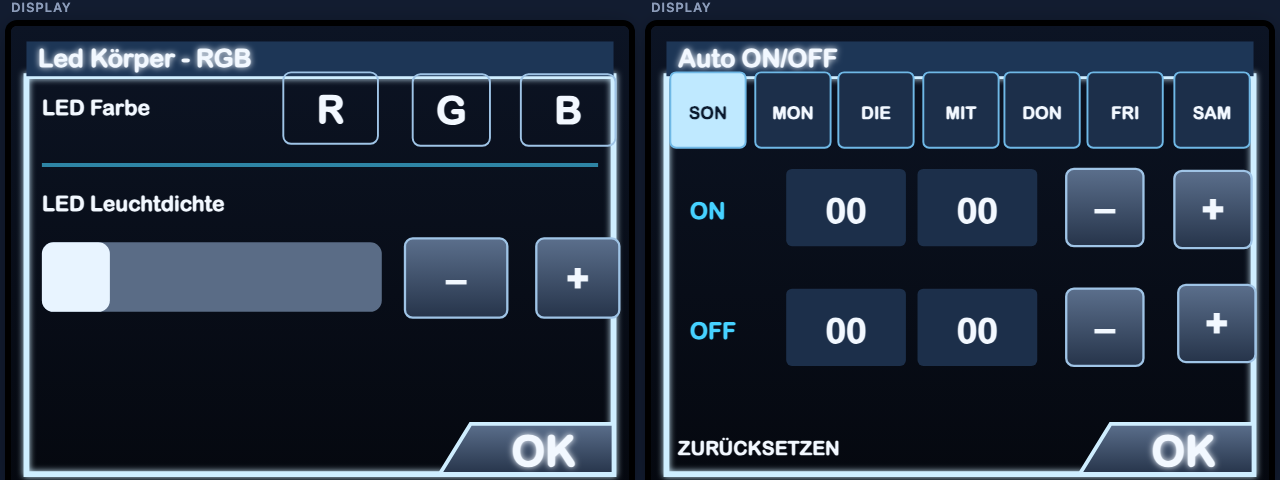
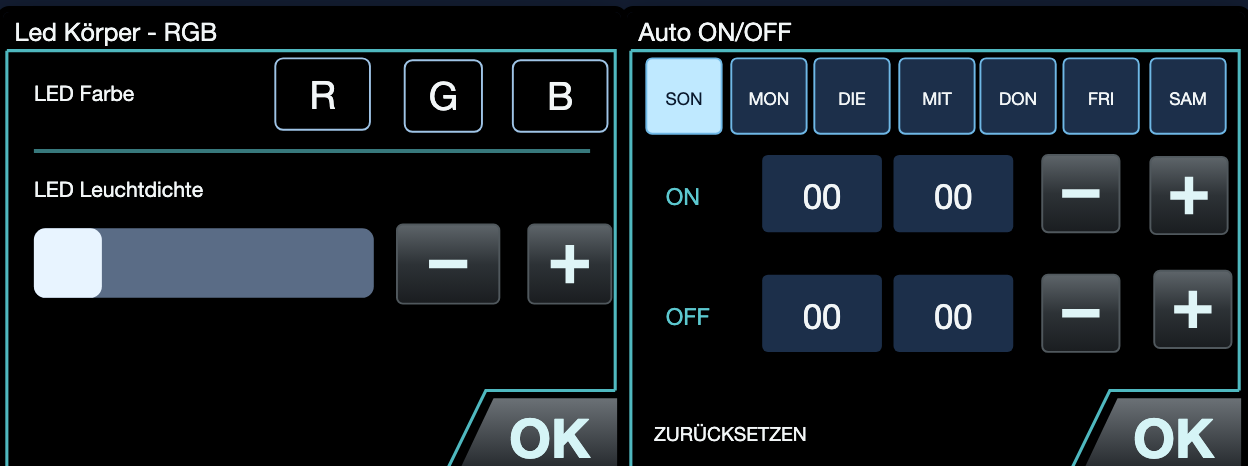
Web-Nachbau nach den Bildschirmfotos im Bezzera-Handbuch
Das offizielle Handbuch "Matrix Duo" (2018/2020) enthaelt die Oberflaeche
in Originalaufloesung 320x240. Danach neu gezeichnet:
- schwarzer Grund, tuerkise Linien und Schrift, graue Knoepfe; Seiten mit
  Titel oben links und OK-Reiter, Dialoge mit Titelbalken
- Startbildschirm: links Pumpendruck 0-10 bar (vorher faelschlich
  10-100), rechts Druck Servicekessel 0-2,5 bar, Teilstriche, Zeiger,
  Heizbogen, Wasserstand als Ring mit "water level"
- Symbole: Tasse, Dampf mit Wasser, Seitenmenue (Tuch/Hand, Zahnrad,
  Dusche, Ein/Aus), Schraubenschluessel, Zeilen-Symbole der Einstellungen,
  rotes Warndreieck, Filter, Tank; Schalter "| OFF" mit Unterstrich,
  Scrollleiste; richtige Flaggen
- README: Drucke auf dem Startbildschirm, Handbuch als Quelle, neue Bilder

Claude-Session: https://claude.ai/code/session_01F4JJqusftCV1Cm3rHrQAFe

diff --git a/bridge/duo_bridge/web_ui.h b/bridge/duo_bridge/web_ui.h
@@ -180,18 +180,20 @@ setInterval(hole,700); hole(); addEventListener("resize",zeichne);
 
 <script>
 // ─── Display-Nachbau (320×240 wie das DMT32240) ────────────────────────────
-const FARBE={bg1:"#0c1424",bg2:"#05080f",rahmen:"#cfeeff",cyan:"#46d2ff",orange:"#ff9d45",text:"#f2f8ff",leise:"#7f93b3"};
+// Farben nach den Bildschirmfotos im Bezzera-Handbuch (Matrix/Duo, 320x240):
+// schwarzer Grund, tuerkise Linien und Schrift, graue Knoepfe.
+const FARBE={bg1:"#000",bg2:"#000",rahmen:"#4fb8bf",cyan:"#5cc8cf",hell:"#9fe6ea",orange:"#ff9d45",rot:"#e3161b",text:"#f2f6f7",leise:"#8a9699"};
 const DE=1, sprachIndex=s=>Math.min(2,Math.floor(Math.max(0,s)/100));
 const T={ // [EN, DE, IT]
  start:["press to start","Für Start drücken","premere per accendere"],
  alarm:["Alarm","Alarm","Allarme"],
- 2:["Loading time out","Timeout Beladen","Timeout carico"],
+ 2:["Loading time out\nrestart loading","Timeout Beladen\nNeustart","Timeout carico\nSpegnere e riaccendere"],
  3:["Please fill water tank","Bitte Tank füllen","Riempire serbatoio"],
  4:["NTC failure","Fehler Sonde NTC","Errore sonda NTC"],
  56:["Necessary maintenance","Wartung erforderlich","Necessaria manutenzione"],
- 77:["No volumetric signal","Kein volumetrisches Signal","Nessun segnale volumetrico"],
+ 77:["No volumetric signal!\nDosage OFF","Kein volumetrisches Signal\nVolumetrische Dosierung OFF","Nessun segnale volumetrico\nDosaggio OFF"],
  89:["Change water filter","Wasserfilter wechseln","Sostituire filtro acqua"],
- 91:["Washing process interrupted","Unterbrochener Waschvorgang","Processo di lavaggio interrotto"],
+ 91:["Attention!\nWashing process interrupted","Achtung!\nUnterbrochener Waschvorgang","Attenzione!\nProcesso di lavaggio interrotto"],
  einst:["Settings","Einstellungen","Impostazioni"], tech:["Technician menu","Technisches Menü","Menu tecnico"],
  kaffee:["Coffee settings","Einstellungen Kaffee","Impostazioni caffè"], tee:["Tea settings","Tee Einstellungen","Impostazioni The"],
  temp:["Temperature","Temperatur","Temperatura"], kessel:["BOILER","KESSEL","CALDAIA"], prio:["PRIORITY","PRIORITÄT","PRIORITA'"],
@@ -217,14 +219,20 @@ function geh(s){cmd("p "+s)}
 function taste(name){const e=$("log"); e.textContent+=`Taste „${name}“ auf Seite ${dspSeite}: Code noch unbekannt, nichts gesendet\n`; e.scrollTop=e.scrollHeight}
 
 const defs=`<defs>
-<linearGradient id="gbg" x1="0" y1="0" x2="0" y2="1"><stop offset="0" stop-color="${FARBE.bg1}"/><stop offset="1" stop-color="${FARBE.bg2}"/></linearGradient>
-<linearGradient id="gzeile" x1="0" y1="0" x2="0" y2="1"><stop offset="0" stop-color="#2a4b73"/><stop offset=".5" stop-color="#132a47"/><stop offset="1" stop-color="#0b1a2e"/></linearGradient>
-<linearGradient id="gknopf" x1="0" y1="0" x2="0" y2="1"><stop offset="0" stop-color="#5b6f8c"/><stop offset="1" stop-color="#26344a"/></linearGradient>
-<linearGradient id="ghell" x1="0" y1="0" x2="1" y2="0"><stop offset="0" stop-color="#e8f6ff"/><stop offset=".6" stop-color="#7fd0ff"/><stop offset="1" stop-color="#1c3a5c"/></linearGradient>
-<radialGradient id="gglow"><stop offset="0" stop-color="#bff0ff" stop-opacity=".9"/><stop offset=".45" stop-color="#46d2ff" stop-opacity=".35"/><stop offset="1" stop-color="#46d2ff" stop-opacity="0"/></radialGradient>
-<filter id="glow" x="-20%" y="-20%" width="140%" height="140%"><feGaussianBlur stdDeviation="1.6" result="b"/><feMerge><feMergeNode in="b"/><feMergeNode in="SourceGraphic"/></feMerge></filter>
+<linearGradient id="gbg" x1="0" y1="0" x2="0" y2="1"><stop offset="0" stop-color="#000"/><stop offset="1" stop-color="#000"/></linearGradient>
+<linearGradient id="gtitel" x1="0" y1="0" x2="1" y2="0"><stop offset="0" stop-color="#3f8c91"/><stop offset=".55" stop-color="#16393c"/><stop offset="1" stop-color="#000"/></linearGradient>
+<linearGradient id="gzeile" x1="0" y1="0" x2="1" y2="0"><stop offset="0" stop-color="#2b4447"/><stop offset=".55" stop-color="#101a1b"/><stop offset="1" stop-color="#000"/></linearGradient>
+<linearGradient id="ghell" x1="0" y1="0" x2="1" y2="0"><stop offset="0" stop-color="#cdf3f5"/><stop offset=".45" stop-color="#4c9da2"/><stop offset="1" stop-color="#000"/></linearGradient>
+<linearGradient id="gknopf" x1="0" y1="0" x2="0" y2="1"><stop offset="0" stop-color="#5e656a"/><stop offset=".5" stop-color="#2d3236"/><stop offset="1" stop-color="#1a1d20"/></linearGradient>
+<linearGradient id="gok" x1="0" y1="0" x2="0" y2="1"><stop offset="0" stop-color="#6b7176"/><stop offset="1" stop-color="#23272b"/></linearGradient>
+<linearGradient id="gleiste" x1="0" y1="0" x2="0" y2="1"><stop offset="0" stop-color="#9fe6ea"/><stop offset="1" stop-color="#1b4a4e"/></linearGradient>
+<linearGradient id="gtrenn" x1="0" y1="0" x2="1" y2="0"><stop offset="0" stop-color="#5cc8cf" stop-opacity="0"/><stop offset=".5" stop-color="#bff0f2"/><stop offset="1" stop-color="#5cc8cf" stop-opacity="0"/></linearGradient>
+<linearGradient id="gheiz" x1="0" y1="1" x2="0" y2="0"><stop offset="0" stop-color="#e3161b"/><stop offset=".5" stop-color="#ff9d2a"/><stop offset="1" stop-color="#ff9d2a" stop-opacity="0"/></linearGradient>
+<radialGradient id="gscheibe"><stop offset="0" stop-color="#2f5b5f"/><stop offset=".7" stop-color="#0c1718"/><stop offset="1" stop-color="#000"/></radialGradient>
+<radialGradient id="gglow"><stop offset="0" stop-color="#2f5b5f"/><stop offset="1" stop-color="#000"/></radialGradient>
+<filter id="glow" x="-20%" y="-20%" width="140%" height="140%"><feGaussianBlur stdDeviation=".6" result="b"/><feMerge><feMergeNode in="b"/><feMergeNode in="SourceGraphic"/></feMerge></filter>
 </defs>`;
-const txt=(x,y,t,o={})=>`<text x="${x}" y="${y}" fill="${o.f||FARBE.text}" font-size="${o.s||12}" font-weight="${o.w||700}" text-anchor="${o.a||"start"}" font-family="Arial Rounded MT Bold,Arial,sans-serif" ${o.glow?'filter="url(#glow)"':""}>${t}</text>`;
+const txt=(x,y,t,o={})=>`<text x="${x}" y="${y}" fill="${o.f||FARBE.text}" font-size="${o.s||12}" font-weight="${o.w||400}" text-anchor="${o.a||"start"}" font-family="Helvetica Neue,Helvetica,Arial,sans-serif" ${o.glow?'filter="url(#glow)"':""}>${t}</text>`;
 const klick=()=>"";  // Klicks wertet die Tastentabelle aus (beruehre())
 
 function rahmen(titel){
@@ -359,7 +367,6 @@ function hebel(x,y,richtung){ // Siebträgerhebel der Brühgruppe, stilisiert
 }
 
 const SEITEN_DE={
- 102:{typ:"alarm",icon:"warn",text:"Timeout Beladen\nNeustart"},
  106:{typ:"start1"},183:{typ:"start1"},
  109:{typ:"prio"},111:{typ:"prio"},
  110:{typ:"wert",titel:"Vorbrühen",label:"Sekunden Vorbrühen",vp:0x5C,div:10,st:1,suffix:"″"},
@@ -416,11 +423,11 @@ function seiteBaukasten(s,j,k,d){
   switch(def.typ){
   case "leer": return `<rect width="320" height="240" fill="#e9eef6"/>`;
   case "alarm": return rahmen(tx("alarm",s))+icon(def.icon,160,86)+mehrzeilig(160,132,def.text,{s:13})+fussLinie(176)+R.map(r=>kn(r,"OK",18)).join("");
-  case "info": return (def.titel?rahmen(def.titel):rahmenOhneTitel())+(def.icon=="sperre"?`<g transform="translate(160,80)" stroke="#cfeeff" stroke-width="3" fill="none" filter="url(#glow)"><path d="M-14 -12 l20 -8 l10 20 l-20 8z"/><path d="M-4 4 l6 14"/></g>`:"")+
+  case "info": return dialog(def.titel||"")+(def.icon=="sperre"?SYM.tuch(160,80,1.8):"")+
       mehrzeilig(160,def.titel?120:118,def.text,{s:12});
   case "frage": { // Meldung mit ESC/OK: rechte Taste OK, linke ESC
     const kn2=R.slice().sort((a,b)=>a.x0-b.x0);
-    return (def.titel?rahmen(def.titel):rahmenOhneTitel())+mehrzeilig(160,def.titel?96:92,def.text,{s:12})+fussLinie(172)+
+    return dialog(def.titel||"")+mehrzeilig(160,def.titel?96:92,def.text,{s:12})+fussLinie(172)+
       kn2.map((r,i)=>kn(r,kn2.length>1&&i==0?"ESC":"OK",13)).join("");
   }
   case "prio": {
@@ -464,11 +471,11 @@ function seiteBaukasten(s,j,k,d){
   }
   case "liste2": return rahmen(def.titel)+def.z.map((z,i)=>zeilenBox(9,31+i*49,274,39)+txt(22,56+i*49,z,{s:13,glow:1})).join("")+okEcke();
   case "sprache": {
-    const flagge=[["#009246","#fff","#ce2b37"],["#012169","#fff","#c8102e"],["#000","#dd0000","#ffce00"]];
-    return rahmen(def.titel)+["Italiano","English","Deutsch"].map((z,i)=>{const y=28+i*50, f=flagge[i];
-      const fl=i==2?`<rect x="18" y="${y+12}" width="22" height="5" fill="${f[0]}"/><rect x="18" y="${y+17}" width="22" height="5" fill="${f[1]}"/><rect x="18" y="${y+22}" width="22" height="5" fill="${f[2]}"/>`
-        :`<rect x="18" y="${y+12}" width="7" height="15" fill="${f[0]}"/><rect x="25" y="${y+12}" width="8" height="15" fill="${f[1]}"/><rect x="33" y="${y+12}" width="7" height="15" fill="${f[2]}"/>`;
-      return zeilenBox(9,y,185,40,i==def.hell)+fl+txt(50,y+25,z,{s:13,f:i==def.hell?"#0b1a2e":FARBE.text})}).join("")+okEcke();
+    const flagge=(x,y,i)=>i==0?`<rect x="${x}" y="${y}" width="8" height="16" fill="#009246"/><rect x="${x+8}" y="${y}" width="8" height="16" fill="#fff"/><rect x="${x+16}" y="${y}" width="8" height="16" fill="#ce2b37"/>`
+      :i==1?`<rect x="${x}" y="${y}" width="24" height="16" fill="#012169"/><path d="M${x} ${y} L${x+24} ${y+16} M${x+24} ${y} L${x} ${y+16}" stroke="#fff" stroke-width="3.2"/><path d="M${x} ${y} L${x+24} ${y+16} M${x+24} ${y} L${x} ${y+16}" stroke="#c8102e" stroke-width="1.2"/><path d="M${x+12} ${y} V${y+16} M${x} ${y+8} H${x+24}" stroke="#fff" stroke-width="5"/><path d="M${x+12} ${y} V${y+16} M${x} ${y+8} H${x+24}" stroke="#c8102e" stroke-width="2.6"/>`
+      :`<rect x="${x}" y="${y}" width="24" height="5.4" fill="#000"/><rect x="${x}" y="${y+5.3}" width="24" height="5.4" fill="#dd0000"/><rect x="${x}" y="${y+10.6}" width="24" height="5.4" fill="#ffce00"/>`;
+    return rahmen(def.titel)+["Italiano","English","Deutsch"].map((z,i)=>{const y=28+i*50;
+      return zeilenBox(8,y,196,40,i==def.hell)+flagge(16,y+12,i)+txt(48,y+26,z,{s:15,f:i==def.hell?"#0b1a1c":FARBE.text})}).join("")+okEcke();
   }
   case "led": case "licht": {
     const vpH=def.typ=="led"?0x21:0x29, v=vpw(vpH), [m,p]=T_.pm(vpH), y=def.typ=="led"?108:92;
@@ -500,11 +507,11 @@ function seiteBaukasten(s,j,k,d){
   }
   case "spuelen": {
     const kurz=T_.code(6,0), komplett=T_.code(6,1), esc=R.find(r=>r.t[7]==0);
-    return rahmen("Waschen")+txt(160,62,"Rückspülen der Brühgruppe",{s:12,a:"middle",glow:1})+(kurz?kn(kurz,"KURZ",15):"")+(komplett?kn(komplett,"COMPLET",15):"")+fussLinie(172)+(esc?kn(esc,"ESC",14):"");
+    return dialog("Waschen")+txt(160,62,"Rückspülen der Brühgruppe",{s:12,a:"middle",glow:1})+(kurz?kn(kurz,"KURZ",15):"")+(komplett?kn(komplett,"COMPLET",15):"")+fussLinie(172)+(esc?kn(esc,"ESC",14):"");
   }
   case "hebel": {
     const k=R.slice().sort((a,b)=>a.x0-b.x0).filter(r=>r.x1-r.x0<150);
-    return rahmen(def.titel)+hebel(30,110,def.richtung)+mehrzeilig(230,def.knoepfe&&def.knoepfe.length==2?60:56,def.text,{s:11,zh:13})+
+    return dialog(def.titel)+hebel(24,120,def.richtung)+mehrzeilig(230,def.knoepfe&&def.knoepfe.length==2?60:56,def.text,{s:11,zh:13})+
       (def.knoepfe?fussLinie(172)+k.map((r,i)=>kn(r,def.knoepfe[i]||"OK",13)).join(""):"");
   }
   case "gruppe": {
@@ -549,6 +556,199 @@ function zeigeDisplay(j,k,d){
 }
 </script>
 
+
+<script>
+// ─── Stil nach dem Handbuch: Rahmen, Knöpfe, Symbole, Startbildschirm ──────
+// Überschreibt die gleichnamigen Funktionen des ersten Nachbaus. Vorlage sind
+// die Bildschirmfotos (320×240) im Bezzera-Handbuch „Matrix Duo“ (2018/2020).
+const TK=FARBE.cyan;
+T.start=["press to start","Für Start drücken","premere per accendere"];
+T.dal=["Dal 1901","Dal 1901","Dal 1901"];
+
+// Symbole, alle in Türkis, Mittelpunkt x/y, Größe ~ s
+const SYM={
+ tasse:(x,y,s=1)=>`<g transform="translate(${x},${y}) scale(${s})" fill="none" stroke="${TK}" stroke-width="2.2"><path d="M-9 -6 H7 V2 Q7 9 -1 9 Q-9 9 -9 2 Z"/><path d="M7 -3 Q13 -3 13 1 Q13 5 7 4"/><path d="M-11 11 H9" stroke-width="1.5"/></g>`,
+ dampf:(x,y,s=1)=>`<g transform="translate(${x},${y}) scale(${s})" fill="none" stroke="${TK}" stroke-width="2"><path d="M-8 9 Q-12 5 -8 1 Q-10 -4 -4 -5 Q-2 -10 3 -7 Q9 -8 8 -2 Q13 1 9 6 Q8 10 3 9 Z"/><path d="M-6 -10 Q-9 -14 -5 -16"/></g>`,
+ wasser:(x,y,s=1)=>`<g transform="translate(${x},${y}) scale(${s})" fill="${TK}"><text x="-9" y="-2" font-size="8" fill="${TK}" font-family="Arial">1</text><path d="M-2 -8 q-3 4 0 5 q3 -1 0 -5z"/><path d="M4 -10 q-3 4 0 5 q3 -1 0 -5z"/><path d="M-6 3 q2 -2 4 0 t4 0 t4 0 M-6 7 q2 -2 4 0 t4 0 t4 0" fill="none" stroke="${TK}" stroke-width="1.4"/></g>`,
+ zahnrad:(x,y,s=1)=>{let z="";for(let i=0;i<8;i++){z+=`<rect x="-2.6" y="-13" width="5.2" height="6" rx="1" transform="rotate(${i*45})"/>`}return `<g transform="translate(${x},${y}) scale(${s})" fill="${TK}">${z}<circle r="9"/><circle r="3.6" fill="#000"/></g>`},
+ dusche:(x,y,s=1)=>`<g transform="translate(${x},${y}) scale(${s})"><path d="M-12 -12 Q-4 -16 0 -8" fill="none" stroke="${TK}" stroke-width="3"/><path d="M-4 -8 L6 -12 L10 -2 L0 2 Z" fill="${TK}"/><g stroke="${TK}" stroke-width="1.6">${[[2,5],[6,3],[10,1],[4,9],[8,7],[12,5],[6,13],[10,11],[14,9]].map(([a,b])=>`<path d="M${a} ${b} l1.5 1.5"/>`).join("")}</g></g>`,
+ power:(x,y,s=1)=>`<g transform="translate(${x},${y}) scale(${s})" fill="none" stroke="${TK}" stroke-width="3" stroke-linecap="round"><path d="M-5 -9 A11 11 0 1 0 5 -9" stroke-dasharray="40 3 3 3 3 3"/><path d="M0 -14 V-2"/></g>`,
+ tuch:(x,y,s=1)=>`<g transform="translate(${x},${y}) scale(${s})"><path d="M-12 -4 L2 -13 L12 1 L-2 11 Z" fill="${TK}"/><path d="M2 -13 L5 -6 L12 1" fill="#2d6f73"/><path d="M-4 2 q-2 -6 2 -7 q1 -4 4 -2 q2 -3 4 0 q3 -1 3 2 l1 7 q0 5 -6 6 q-6 0 -8 -6z" fill="#dff7f8" stroke="#000" stroke-width=".8"/></g>`,
+ schluessel:(x,y,s=1)=>`<g transform="translate(${x},${y}) scale(${s}) rotate(45)" fill="${TK}"><path d="M-2.5 -4 H2.5 V13 Q2.5 16 0 16 Q-2.5 16 -2.5 13 Z"/><path d="M-7 -10 A8 8 0 1 0 7 -10 L3 -10 L3 -4 L-3 -4 L-3 -10 Z"/></g>`,
+ sprache:(x,y,s=1)=>`<g transform="translate(${x},${y}) scale(${s})" fill="none" stroke="${TK}" stroke-width="1.6"><rect x="-11" y="-9" width="12" height="9" rx="2" fill="${TK}"/><text x="-8" y="-2" font-size="7" fill="#000" stroke="none" font-weight="700" font-family="Arial">A</text><rect x="-2" y="-3" width="13" height="10" rx="2" fill="#000"/><path d="M1 7 l-2 4 l5 -4"/><text x="1.5" y="5" font-size="7" fill="${TK}" stroke="none" font-family="Arial">あ</text></g>`,
+ winkel:(x,y,s=1)=>`<g transform="translate(${x},${y}) scale(${s})" fill="${TK}"><path d="M-10 10 V-10 L10 10 Z"/><path d="M-6 6 V-1 L1 6 Z" fill="#000"/></g>`,
+ birne:(x,y,s=1)=>`<g transform="translate(${x},${y}) scale(${s})"><circle cy="-3" r="9" fill="${TK}"/><circle cx="-3" cy="-5" r="1.4" fill="#000"/><circle cx="3" cy="-5" r="1.4" fill="#000"/><circle cy="0" r="1.4" fill="#000"/><rect x="-4.5" y="6" width="9" height="2" fill="${TK}"/><rect x="-4" y="9" width="8" height="2" fill="${TK}"/></g>`,
+ tank:(x,y,s=1,f=TK)=>`<g transform="translate(${x},${y}) scale(${s})"><path d="M-11 -9 V8 H11 V-9" fill="none" stroke="${f}" stroke-width="2.4"/><path d="M-11 -3 H-7 M7 -3 H11" stroke="${f}" stroke-width="2"/><path d="M0 -7 q-5 6 0 9 q5 -3 0 -9z" fill="${f}"/></g>`,
+ tropfen:(x,y,s=1)=>`<g transform="translate(${x},${y}) scale(${s})" fill="${TK}"><path d="M-4 -11 q-6 7 0 10 q6 -3 0 -10z"/><path d="M4 -1 q-6 7 0 10 q6 -3 0 -10z"/></g>`,
+ hahn:(x,y,s=1)=>`<g transform="translate(${x},${y}) scale(${s})" fill="none" stroke="${TK}" stroke-width="2.4"><path d="M-8 8 V-6 H6 V-1"/><path d="M6 3 q-2 3 0 4 q2 -1 0 -4z" fill="${TK}" stroke="none"/></g>`,
+ kalender:(x,y,s=1,uhr=false)=>`<g transform="translate(${x},${y}) scale(${s})"><rect x="-10" y="-8" width="20" height="18" rx="2" fill="${TK}"/><rect x="-8" y="-3" width="16" height="11" fill="#000"/>${[-6,-1,4].map(a=>`<rect x="${a}" y="-1" width="3" height="3" fill="${TK}"/><rect x="${a}" y="4" width="3" height="3" fill="${TK}"/>`).join("")}<rect x="-6" y="-11" width="2" height="5" fill="${TK}"/><rect x="4" y="-11" width="2" height="5" fill="${TK}"/>${uhr?`<circle cx="8" cy="8" r="6" fill="#000" stroke="${TK}" stroke-width="2"/><path d="M8 5 V8 H10" stroke="${TK}" stroke-width="1.5" fill="none"/>`:`<path d="M3 6 l3 3 l6 -7" stroke="#fff" stroke-width="2" fill="none"/>`}</g>`,
+ filter:(x,y,s=1,f=TK)=>`<g transform="translate(${x},${y}) scale(${s})" fill="${f}">${Array.from({length:10},(_,i)=>`<circle cx="${(10*Math.cos(i*Math.PI/5)).toFixed(1)}" cy="${(10*Math.sin(i*Math.PI/5)).toFixed(1)}" r="1.8"/>`).join("")}<text x="0" y="4" font-size="11" text-anchor="middle" font-weight="700" font-family="Arial">S</text></g>`,
+ warn:(x,y,s=1)=>`<g transform="translate(${x},${y}) scale(${s})"><path d="M0 -16 L18 14 H-18 Z" fill="none" stroke="${FARBE.rot}" stroke-width="3.2" stroke-linejoin="round"/><path d="M0 -4 V5" stroke="#fff" stroke-width="3" stroke-linecap="round"/><circle cy="9.5" r="1.7" fill="#fff"/></g>`,
+ thermo:(x,y,s=1)=>`<g transform="translate(${x},${y}) scale(${s})"><rect x="-2.5" y="-11" width="5" height="14" rx="2.5" fill="none" stroke="${TK}" stroke-width="1.8"/><circle cy="6" r="4.5" fill="${TK}"/></g>`,
+ key:(x,y,s=1)=>`<g transform="translate(${x},${y}) scale(${s}) rotate(-35)"><circle cx="-6" r="5" fill="none" stroke="${TK}" stroke-width="3"/><path d="M-1 0 H12 M8 0 V4 M11 0 V3" stroke="${TK}" stroke-width="3"/></g>`,
+};
+
+function schlange(x,y,sk,farbe){ // Bezzera-„Biscione“, vereinfachte Kontur
+  return `<g transform="translate(${x},${y}) scale(${sk})" fill="none" stroke="${farbe}" stroke-width="2.2" stroke-linecap="round" stroke-linejoin="round">
+  <path d="M-4 -26 q10 -6 14 2 q-4 6 -12 5 q-12 -2 -12 8 q0 9 13 8 q13 -1 13 9 q0 10 -13 9 q-12 -1 -12 7 q0 7 10 7"/>
+  <path d="M-4 -26 l-6 -4 M-4 -26 l-10 1 M-13 -32 l6 12 M-18 -26 l12 0"/><circle cx="6" cy="-24" r="1.2" fill="${farbe}"/></g>`;
+}
+function kopfLogo(x,y,f="#fff"){return schlange(x+6,y+12,.38,f)+txt(x+16,y+11,"BEZZERA",{s:13,w:800,f})+txt(x+27,y+22,"Dal 1901",{s:8,w:700,f})}
+function menueQuadrate(){return `<g fill="${TK}"><rect x="2" y="3" width="8" height="8"/><rect x="2" y="13" width="8" height="8"/><rect x="2" y="23" width="8" height="8"/></g>`}
+function uhr(r){
+  const hm=r?r.slice(11,16):"--:--", dat=r?r.slice(8,10)+"/"+r.slice(5,7)+"/"+r.slice(0,4):"";
+  return `<rect x="0" y="198" width="4" height="42" fill="url(#gleiste)"/>`+txt(8,219,hm,{s:19,w:300,f:TK})+txt(8,231,dat,{s:8,f:TK});
+}
+// Seite mit Titel oben links, türkisem Rahmen und OK-Reiter unten rechts
+function rahmen(titel){
+  return `<rect width="320" height="240" fill="#000"/>`+txt(6,15,titel,{s:13,f:FARBE.text})+
+   `<path d="M2 20 H317 V196 M2 20 V237 H230" fill="none" stroke="${FARBE.rahmen}" stroke-width="1.6"/>`;
+}
+function okEcke(){
+  return `<path d="M230 237 L250 196 H317" fill="none" stroke="${FARBE.rahmen}" stroke-width="1.6"/>`+
+   `<path d="M236 238 L254 200 H318 V238 Z" fill="url(#gok)"/>`+txt(283,231,"OK",{s:28,w:700,a:"middle",f:"#d5f4f6"});
+}
+// Dialogfenster (Alarm, Rückfragen): voller Rahmen, Titelbalken
+function dialog(titel){
+  return `<rect width="320" height="240" fill="#000"/><rect x="2" y="2" width="316" height="236" fill="none" stroke="${FARBE.rahmen}" stroke-width="3"/>`+
+   (titel?`<rect x="3.5" y="3.5" width="313" height="30" fill="url(#gtitel)"/>`+txt(12,26,titel,{s:20,f:FARBE.text}):"");
+}
+function rahmenOhneTitel(){return dialog("")}
+function fussLinie(y=172){return `<rect x="8" y="${y}" width="304" height="2" fill="url(#gtrenn)"/>`}
+function knopf(x,y,w,h,t,js,s=14){return `<rect x="${x}" y="${y}" width="${w}" height="${h}" rx="3" fill="url(#gknopf)" stroke="#50585d"/>`+txt(x+w/2,y+h/2+s*.36,t,{s,a:"middle",w:700,f:"#e9f7f8"})}
+function kn(r,label,sz=14,aktiv=false){const w=r.x1-r.x0,h=r.y1-r.y0, x=r.x0+2,y=r.y0+2;
+  if(label=="–"||label=="+"){ // ± wie im Handbuch: dunkles Feld, dicke helle Zeichen
+    const cx=x+(w-4)/2, cy=y+(h-4)/2, l=Math.min(w,h)*.22;
+    return `<rect x="${x}" y="${y}" width="${w-4}" height="${h-4}" rx="3" fill="url(#gknopf)" stroke="#50585d"/><path d="M${cx-l} ${cy} H${cx+l}${label=="+"?` M${cx} ${cy-l} V${cy+l}`:""}" stroke="#dff5f7" stroke-width="${Math.max(3,l*.45)}"/>`;
+  }
+  return `<rect x="${x}" y="${y}" width="${w-4}" height="${h-4}" rx="3" fill="${aktiv?"#bfe9ec":"url(#gknopf)"}" stroke="#50585d"/>`+
+    txt(r.x0+w/2,r.y0+h/2+sz*.36,label,{s:sz,a:"middle",w:700,f:aktiv?"#0b1a1c":"#e9f7f8"});
+}
+function zeilenBox(x,y,w,h,aktiv){return `<rect x="${x}" y="${y}" width="${w}" height="${h}" rx="2" fill="${aktiv?"url(#ghell)":"url(#gzeile)"}" stroke="${FARBE.rahmen}" stroke-width=".8"/>`}
+function mehrzeilig(x,y,t,o={}){return t.split("\n").map((z,i)=>txt(x,y+i*(o.zh||19),z,{s:15,a:"middle",f:FARBE.text,...o})).join("")}
+function schalter(x,y,text,an){ // „| OFF“ mit Unterstrich: grün = aktiv
+  return `<rect x="${x-6}" y="${y-13}" width="1.5" height="15" fill="#bfe9ec"/>`+txt(x,y,text,{s:15,f:FARBE.text})+`<rect x="${x}" y="${y+5}" width="${text.length*9}" height="2.5" fill="${an?"#39d353":"#777"}"/>`;
+}
+function scrollleiste(stufe,stufen){
+  const th=Math.max(20,120/stufen), ty=70+(120-th)*(stufen>1?stufe/(stufen-1):0);
+  return `<rect x="274" y="22" width="41" height="170" rx="3" fill="#0d1516" stroke="#2c4a4c"/>`+
+   `<rect x="276" y="24" width="37" height="42" rx="3" fill="url(#gknopf)"/><path d="M285 52 L294.5 38 L304 52" fill="none" stroke="${TK}" stroke-width="3"/>`+
+   `<rect x="276" y="146" width="37" height="44" rx="3" fill="url(#gknopf)"/><path d="M285 160 L294.5 174 L304 160" fill="none" stroke="${TK}" stroke-width="3"/>`+
+   `<rect x="279" y="${Math.min(ty,120)}" width="31" height="16" rx="3" fill="#9aa3a6"/>`;
+}
+
+// Startbildschirm: links Pumpendruck 0–10 bar, rechts Druck Servicekessel
+// 0–2,5 bar, in der Mitte Temperaturen; rechts der Wasserstand.
+function seiteStart(s,j,k,d,einZeiger=false){
+  const cx=158, cy=120, R=84, rad=a=>a*Math.PI/180, P=(a,r)=>[cx+Math.cos(rad(a))*r, cy+Math.sin(rad(a))*r];
+  const bogen=(a0,a1,r,sweep)=>{const [x0,y0]=P(a0,r),[x1,y1]=P(a1,r);return `M${x0.toFixed(1)} ${y0.toFixed(1)} A${r} ${r} 0 0 ${sweep} ${x1.toFixed(1)} ${y1.toFixed(1)}`};
+  let o=`<rect width="320" height="240" fill="#000"/><circle cx="${cx}" cy="${cy}" r="${R-8}" fill="url(#gscheibe)"/>`;
+  // linker Bogen: Pumpendruck, 0 unten (95°) bis 10 oben (265°)
+  const LA=v=>95+v/10*170;
+  o+=`<path d="${bogen(95,265,R,1)}" stroke="${TK}" stroke-width="15" fill="none"/>`;
+  for(let v=0;v<=10;v+=.5){const [x0,y0]=P(LA(v),R-7.5),[x1,y1]=P(LA(v),R+(v%1?-3:7.5));o+=`<path d="M${x0.toFixed(1)} ${y0.toFixed(1)} L${x1.toFixed(1)} ${y1.toFixed(1)}" stroke="#000" stroke-width="${v%1?1:1.6}"/>`}
+  ["1.0","2.0","3.0","4.0","5.0","6.0","7.0","8.0","9.0","10"].forEach((t,i)=>{const [x,y]=P(i==9?LA(9.55):LA(i+1),R+17);o+=txt(x.toFixed(1),(y+3).toFixed(1),t,{s:i==9||i==4?13:8,a:"middle",f:"#dfe7e8"})});
+  o+=`<path d="${bogen(LA(6),LA(9.8),R-11,1)}" stroke="#e3161b" stroke-width="2.5" fill="none" stroke-opacity=".9"/><path d="${bogen(LA(4.5),LA(6.2),R-11,1)}" stroke="#ff9d2a" stroke-width="2.5" fill="none" stroke-opacity=".6"/>`;
+  if(!einZeiger){
+    const RA=v=>85-v/2.5*170;
+    o+=`<path d="${bogen(RA(2.5),RA(0),R,1)}" stroke="${TK}" stroke-width="15" fill="none"/>`;
+    for(let v=0;v<=2.5;v+=.125){const g=Math.abs(v*2-Math.round(v*2))<1e-6;const [x0,y0]=P(RA(v),R-7.5),[x1,y1]=P(RA(v),R+(g?7.5:-3));o+=`<path d="M${x0.toFixed(1)} ${y0.toFixed(1)} L${x1.toFixed(1)} ${y1.toFixed(1)}" stroke="#000" stroke-width="${g?1.6:1}"/>`}
+    ["0.5","1","1.5","2","2.5"].forEach((t,i)=>{const [x,y]=P(i==4?RA(2.38):RA((i+1)/2),R+16);o+=txt(x.toFixed(1),(y+3).toFixed(1),t,{s:i==4?13:9,a:"middle",f:"#dfe7e8"})});
+    o+=`<path d="${bogen(RA(2.45),RA(1.3),R-11,1)}" stroke="#e3161b" stroke-width="2.5" fill="none" stroke-opacity=".9"/><path d="${bogen(RA(1.35),RA(0.9),R-11,1)}" stroke="#ff9d2a" stroke-width="2.5" fill="none" stroke-opacity=".6"/>`;
+  }
+  // Trennstriche oben und unten, Zeiger auf 0
+  o+=`<path d="M${cx} ${cy-R-9} V${cy-R+9} M${cx} ${cy+R-9} V${cy+R+9}" stroke="#000" stroke-width="3"/>`;
+  const zeiger=a=>{const [x0,y0]=P(a,R-8),[x1,y1]=P(a,R+8);return `<path d="M${x0.toFixed(1)} ${y0.toFixed(1)} L${x1.toFixed(1)} ${y1.toFixed(1)}" stroke="#fff" stroke-width="4"/>`};
+  o+=zeiger(LA(0.15)); if(!einZeiger) o+=zeiger(85-0.15/2.5*170);
+  o+=txt(cx,cy+R+13,"0",{s:12,a:"middle",f:"#dfe7e8"})+txt(cx+6,cy+R+13,"bar",{s:8,f:"#dfe7e8"});
+  // Mitte
+  if(einZeiger){
+    o+=SYM.tasse(cx,cy-30,1)+txt(cx,cy+12,k??"–",{s:30,a:"middle",f:"#fff"});
+  }else{
+    o+=SYM.tasse(cx-26,cy-28,1)+SYM.dampf(cx+20,cy-26,.95)+SYM.wasser(cx+40,cy-28,.9);
+    o+=txt(cx-24,cy+12,k??"–",{s:24,a:"middle",f:"#fff"})+txt(cx+2,cy-2,"°C",{s:9,a:"middle",f:"#fff"})+txt(cx+28,cy+12,d??"–",{s:24,a:"middle",f:"#fff"});
+    o+=`<rect x="${cx-44}" y="${cy+18}" width="34" height="3" fill="#7a8285"/><rect x="${cx+10}" y="${cy+18}" width="34" height="3" fill="#7a8285"/>`;
+    // Wasserstand, rechts angeschnitten
+    const wx=304, wy=120, wr=34;
+    const seg=(a0,a1,voll)=>{const q=a=>[wx+Math.cos(rad(a))*wr, wy+Math.sin(rad(a))*wr];const [x0,y0]=q(a0),[x1,y1]=q(a1);
+      return `<path d="M${x0.toFixed(1)} ${y0.toFixed(1)} A${wr} ${wr} 0 0 0 ${x1.toFixed(1)} ${y1.toFixed(1)}" stroke="${TK}" stroke-width="7" fill="none" ${voll?"":`stroke-opacity=".25"`}/>`};
+    o+=`<circle cx="${wx}" cy="${wy}" r="${wr-6}" fill="#0c1718"/>`+seg(248,215,false)+seg(211,178,true)+seg(174,141,true)+seg(137,104,true);
+    o+=txt(wx-12,wy-2,"water",{s:8,a:"middle",f:TK})+txt(wx-12,wy+8,"level",{s:8,a:"middle",f:TK});
+    o+=`<g transform="translate(${wx-26},${wy-38}) rotate(-58)">`+txt(0,0,"max",{s:9,f:"#cfd8d9"})+`</g><g transform="translate(${wx-38},${wy+36}) rotate(58)">`+txt(0,0,"min",{s:9,f:"#cfd8d9"})+`</g>`;
+  }
+  return o+menueQuadrate()+kopfLogo(14,2)+uhr(j.rtc);
+}
+function seiteStandby(s,j){
+  return `<rect width="320" height="240" fill="#000"/>`+kopfLogo(4,0)+`<rect x="0" y="30" width="170" height="1.5" fill="url(#gtrenn)"/>`+
+   schlange(160,92,1.25,FARBE.rot)+txt(160,160,"BEZZERA",{s:13,w:800,a:"middle",f:"#fff"})+txt(160,173,"Dal 1901",{s:9,w:700,a:"middle",f:"#fff"})+
+   txt(190,207,tx("start",s),{s:12,a:"middle",f:"#d9dfe0"})+
+   `<path d="M272 108 H318 V148 H266 V114 Z" fill="#2c3b3d"/>`+SYM.schluessel(292,128,.9)+uhr(j.rtc);
+}
+function seiteMenue(s,j,k,d){
+  const bild=seiteStart(s,j,k,d).replace('<rect width="320" height="240" fill="#000"/>','<rect width="320" height="240" fill="#000"/><g opacity=".38">')+"</g>";
+  const kachel=(y,icon)=>`<path d="M6 ${y} H66 L72 ${y+6} V${y+43} H12 L6 ${y+37} Z" fill="#162224" stroke="#355a5d"/>${icon}`;
+  return bild+`<rect x="0" y="0" width="78" height="240" fill="#000" opacity=".85"/><rect x="74" y="36" width="3" height="204" fill="url(#gleiste)"/>`+
+    menueQuadrate()+kopfLogo(14,2)+kachel(45,SYM.tuch(39,68,.95))+kachel(94,SYM.zahnrad(39,117,1))+kachel(144,SYM.dusche(39,167,1))+kachel(193,SYM.power(39,216,1));
+}
+function seiteAlarm(s,j){
+  const b=s%100, ic={2:"warn",3:"tank",4:"warn",56:"schluessel",77:"warn",89:"filter",91:"warn"}[b];
+  const symbol=ic=="warn"?SYM.warn(160,70,1.1):ic=="tank"?SYM.tank(160,72,1.6,FARBE.orange):ic=="filter"?SYM.filter(160,72,1.4,FARBE.orange):`<g>${SYM.schluessel(160,72,1.3).replaceAll(TK,FARBE.orange)}</g>`;
+  const R=tastenRect(s);
+  return dialog(tx("alarm",s))+symbol+mehrzeilig(160,126,tx(b,s),{s:16})+fussLinie(178)+R.map(r=>kn(r,"OK",18)).join("");
+}
+// Menülisten: Symbol, Text, Wert/Schalter; Scrollleiste; OK-Reiter
+const LISTEN_SYM={Sprache:"sprache",Language:"sprache",Lingua:"sprache",Einheiten:"winkel",Units:"winkel","Unità":"winkel"};
+function zeilenSymbol(z){
+  const t=z[0].toLowerCase();
+  if(t.startsWith("language")) return SYM.sprache(24,0,.9);
+  if(t.startsWith("units")) return SYM.winkel(24,0,.8);
+  if(t.startsWith("led")||t.startsWith("lights")) return SYM.birne(24,0,.9);
+  if(t.startsWith("sensor")) return SYM.tank(24,0,.8);
+  if(t.startsWith("maint")) return SYM.schluessel(24,0,.7);
+  if(t.startsWith("water filter")) return SYM.filter(24,0,.8);
+  if(t.startsWith("water source")) return SYM.tropfen(24,0,.8);
+  if(t.startsWith("date")) return SYM.kalender(24,0,.8);
+  if(t.startsWith("auto")) return SYM.kalender(24,0,.8,true);
+  if(t.startsWith("password")) return SYM.key(24,0,.8);
+  if(t.startsWith("group temp")) return SYM.thermo(24,0,1);
+  return "";
+}
+function seiteListe(s){
+  const b=s%100, L=LISTEN[b], i=sprachIndex(s), tech=LISTE_TITEL[b]=="tech";
+  let o=rahmen(tx(LISTE_TITEL[b],s));
+  L.forEach((z,n)=>{const y=27+n*50, sym=tech?"":zeilenSymbol(z);
+    o+=zeilenBox(8,y,258,40)+(sym?`<g transform="translate(0,${y+20})">${sym}</g>`:"")+txt(tech?16:44,y+26,z[i],{s:15,f:FARBE.text});
+    const w=z[3];
+    if(w=="OFF"||w=="ON") o+=schalter(222,y+26,w,w=="ON");
+    else if(w=="°C | °F") o+=txt(206,y+26,"°C",{s:15,f:FARBE.text})+`<rect x="206" y="${y+31}" width="22" height="2.5" fill="#39d353"/>`+schalter(236,y+26,"°F",false);
+    else if(w=="E61 | BZ") o+=txt(196,y+26,"E61",{s:15,f:FARBE.text})+`<rect x="196" y="${y+31}" width="28" height="2.5" fill="#39d353"/>`+schalter(234,y+26,"BZ",false);
+    else if(w) o+=txt(258,y+26,w,{s:15,a:"end",f:FARBE.text});
+    if(!tech&&z[0].toLowerCase().startsWith("water source")) o+=SYM.tank(214,y+19,.7)+`<rect x="206" y="${y+31}" width="18" height="2.5" fill="#39d353"/>`+SYM.hahn(248,y+20,.8);
+  });
+  const erste=[16,20].includes(b), stufe={16:0,17:1,18:2,19:3,20:0,21:1,22:2,79:0,82:0}[b]||0, stufen=[16,17,18,19].includes(b)?4:3;
+  return o+scrollleiste(stufe,stufen)+okEcke();
+}
+function seiteTemperatur(s,j){
+  const b=s%100, kaffee=b==7||b==12;
+  let o=rahmen(tx(kaffee?"kaffee":"tee",s))+txt(10,48,tx("kessel",s),{s:12,f:FARBE.text})+txt(70,48,"OFF",{s:15,f:TK})+`<rect x="70" y="53" width="30" height="3" fill="#777"/>`+
+    txt(134,48,tx("prio",s)+":",{s:12,f:FARBE.text})+txt(208,48,["coffee","Kaffee","caffè"][sprachIndex(s)],{s:15,f:TK})+`<rect x="8" y="62" width="300" height="2" fill="url(#gtrenn)"/>`+txt(12,88,tx("temp",s),{s:16,f:TK});
+  if(b==7||b==8) o+=txt(66,136,"–",{s:50,w:200,a:"middle",f:"#8fd8dc"})+txt(128,104,"°C",{s:22,w:200,f:"#8fd8dc"});
+  o+=tastenRect(s).filter(r=>r.t[6]==5&&r.t[7]==0x15).map(r=>kn(r,r.t[8]==2?"+":"–")).join("");
+  if(kaffee) o+=`<rect x="4" y="202" width="2" height="18" fill="#bfe9ec"/>`+txt(10,217,"CRONO",{s:12,f:FARBE.text})+txt(62,217,"OFF",{s:12,f:TK})+`<rect x="62" y="221" width="22" height="2" fill="#777"/>`+
+    `<rect x="142" y="202" width="2" height="18" fill="#bfe9ec"/>`+txt(150,217,tx("vorb",s),{s:12,f:FARBE.text});
+  return o+okEcke();
+}
+// Spülablauf: Brühgruppe von der Seite mit Hebel und Pfeil
+function hebel(x,y,richtung){
+  return `<g transform="translate(${x},${y})" fill="none" stroke="${TK}" stroke-width="1.8">
+   <rect x="0" y="-28" width="20" height="52" rx="2"/><rect x="4" y="-36" width="12" height="8"/><rect x="7" y="-42" width="6" height="6"/>
+   <path d="M20 -10 H48 V20 H20"/><path d="M48 6 H62 L66 12 H48"/>
+   <circle cx="10" cy="30" r="7"/><circle cx="10" cy="30" r="2" fill="${TK}"/>
+   <path d="M12 26 L36 ${richtung>0?-18:-22}" stroke-width="5"/>
+   ${richtung>0?`<path d="M30 -30 A34 34 0 0 1 58 -4" stroke-width="2"/><path d="M52 -8 l6 4 l1 -7" stroke-width="2"/>`
+     :`<path d="M52 -8 A34 34 0 0 0 26 -32" stroke-width="2"/><path d="M31 -34 l-6 2 l3 6" stroke-width="2"/>`}</g>`;
+}
+</script>
 <script>
 // ─── Berührung wie am Display: Tastentabelle aus 13.bin ────────────────────
 let letzterStatus=null;

diff --git a/README.md b/README.md
@@ -21,7 +21,7 @@
 <p align="center">
   <img src="docs/screenshots/hero.png" alt="Nachbau des Bezzera-Displays in der Weboberfläche: Startbildschirm, Einstellungen, PID-Kessel Kaffee, Alarm Bitte Tank füllen" width="860" />
   <br />
-  <sub><i>Der Display-Nachbau der Weboberfläche — gezeichnet nach Fotos aller 300 Seiten, bedienbar mit den Tastenflächen aus dem Display-Flash.</i></sub>
+  <sub><i>Der Display-Nachbau der Weboberfläche — gezeichnet nach den Bildschirmfotos im Bezzera-Handbuch und eigenen Fotos aller 300 Seiten, bedienbar mit den Tastenflächen aus dem Display-Flash.</i></sub>
 </p>
 
 ---
@@ -67,6 +67,12 @@ selbst zu sprechen. Ziel ist dasselbe wie beim Reddit-Projekt von
     <td width="50%" align="center">
       <img src="docs/screenshots/foto_startseite.jpg" alt="Webcam-Foto des echten Displays, Startbildschirm mit Testwerten 13 und 14" width="420" /><br />
       <b>Das Original (Webcam, Testwerte 13/14)</b>
+    </td>
+  </tr>
+  <tr>
+    <td colspan="2" align="center">
+      <img src="docs/screenshots/standby_menue.png" alt="Nachgebauter Standby-Bildschirm und Startbildschirm mit Seitenmenü" width="700" /><br />
+      <b>Standby und Seitenmenü (Reinigen, Einstellungen, Rückspülen, Standby)</b>
     </td>
   </tr>
   <tr>
@@ -220,8 +226,14 @@ Tastencode.
 | `0x0000` | Mainboard liest | 100 ms | Tastencode des Displays (Navigation, Aktionen) |
 | `0x0001` | Mainboard liest | 100 ms | zweiter Tastencode (selten) |
 | `0x0002` | Mainboard liest | auf Einstellseiten | „OK“ in Einstellungen |
-| `0x0050` | Mainboard schreibt | ~300 ms | 9 Worte Status: **Wort 3 Kaffeekessel °C, Wort 4 Servicekessel °C**; Wort 2 wird nach Seite 103 zu 1, Wort 7 = 3 |
+| `0x0050` | Mainboard schreibt | ~300 ms | 9 Worte Status: **Wort 3 Kaffeekessel °C, Wort 4 Servicekessel °C**; Wort 2 wird nach Seite 103 zu 1, Wort 7 = 3; Wort 0, 1, 5, 6, 8 bisher 0 (kalte Maschine) — dort werden die Drücke vermutet |
 | `0x0063` | Mainboard schreibt | beim Start | Firmware-Version Mainboard × 10 (21 → „FW: 2.1“) |
+
+**Drücke:** Der Startbildschirm hat laut Handbuch zwei Druckanzeigen, links
+den **Pumpendruck 0–10 bar**, rechts den **Druck des Servicekessels
+0–2,5 bar**; das Mainboard hat dafür den Anschluss PRESS. Welches Wort sie
+trägt, zeigt ein Mitschnitt beim Aufheizen mit gefülltem Tank oder die
+Variablen-Konfiguration (`14.bin`) aus dem Display-Flash.
 
 Alle Tasten sind vom Typ `FDxx`: **Das Display meldet nichts von sich aus**,
 das Mainboard fragt ab. Reine Seitenwechsel erledigt das Display lokal, ohne
@@ -507,6 +519,11 @@ entweder später aktualisiert, oder die Zahlen bedeuten nicht dasselbe.
 
 ## 📚 Quellen
 
+- Bezzera: Bedienungsanleitung „Matrix Duo“ (IT/EN/FR/DE/ES/ZH, 2018 und 2020), mit Bildschirmfotos der Oberfläche in Originalauflösung —
+  [Whole Latte Love](https://www.wholelattelove.com/cdn/shop/files/Bezzera_DUO_Matrix_Manual.pdf),
+  [kaffee24.de](https://www.kaffee24.de/media/e8/95/94/1677585579/W904059%20Bedienungsanleitung%20Bezzera%20Duo%20MN.pdf?ts=1677585579).
+  Vorlage für Farben, Symbole und Skalen des Nachbaus; die Bilder selbst liegen nicht im Repo
+- [Clive Coffee: Technician Menu and Reset](https://support.clivecoffee.com/en/articles/16425965-bezzera-duo-de-mn-accessing-the-technician-menu-and-resetting-the-machine) — Weg ins Technikmenü, Werkspasswort
 - [andrivet/ADVi3pp](https://github.com/andrivet/ADVi3pp), `Marlin/src/advi3pp/core/dgus.h`: Mini-DGUS-Befehle und Register
 - [Sébastien Andrivet: DWIN Mini DGUS Display Development Guide (non-official)](https://sebastien.andrivet.com/en/posts/dwin-mini-dgus-display-development-guide-non-official/)
 - DWIN DGUS Development Guide [v4.0 (2014)](https://cdn.papouch.com/data/user-content/old_eshop/files/DIS_DMT48270T043_3WT/dwin-dgus-dev-guide_v40_2014.pdf), [v4.3 (2015)](https://whiteelectronics.pl/img/cms/DWIN_DGUS_DEV_GUIDE_V43_2015.pdf): DGUS-Register, LibOP, Touch-Konfiguration (Kapitel 7)
